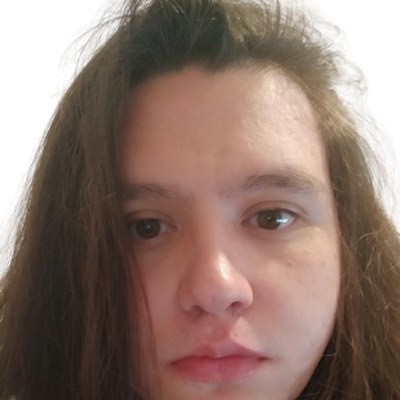
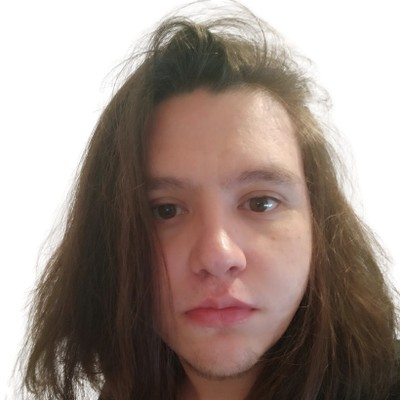
Add category and tag pages, fix photos

diff --git a/assets/css/jekyll-theme-chirpy.scss b/assets/css/jekyll-theme-chirpy.scss
@@ -18,19 +18,11 @@
 #sidebar #avatar img { object-fit: cover; }
 
 /* Home */
-.home-intro {
-  display: grid;
-  grid-template-columns: minmax(0, 1fr) 190px;
-  gap: 2rem;
-  align-items: start;
-}
 .home-intro h1 { margin: 0 0 0.25rem; }
 .home-intro .role { color: var(--text-muted-color); margin-bottom: 1rem; }
-.home-intro .portrait { width: 100%; border-radius: 0.5rem; background: #fff; }
-@media (max-width: 640px) {
-  .home-intro { grid-template-columns: 1fr; gap: 1rem; }
-  .home-intro .portrait { width: 140px; grid-row: 1; }
-}
+/* the sidebar, with its photo, is hidden below 850px */
+.home-intro .portrait { display: none; }
+@media (max-width: 849px) { .home-intro .portrait { display: block; width: 140px; height: auto; border-radius: 0.5rem; background: #fff; margin: 1rem 0; } }
 .news { display: grid; grid-template-columns: 6rem 1fr; gap: 0.4rem 1rem; }
 .news dt { font-weight: 400; color: var(--text-muted-color); }
 .news dd { margin: 0; }

diff --git a/_tabs/categories.md b/_tabs/categories.md
@@ -1,0 +1,5 @@
+---
+layout: categories
+icon: fas fa-stream
+order: 7
+---

diff --git a/_tabs/tags.md b/_tabs/tags.md
@@ -1,0 +1,5 @@
+---
+layout: tags
+icon: fas fa-tags
+order: 8
+---
